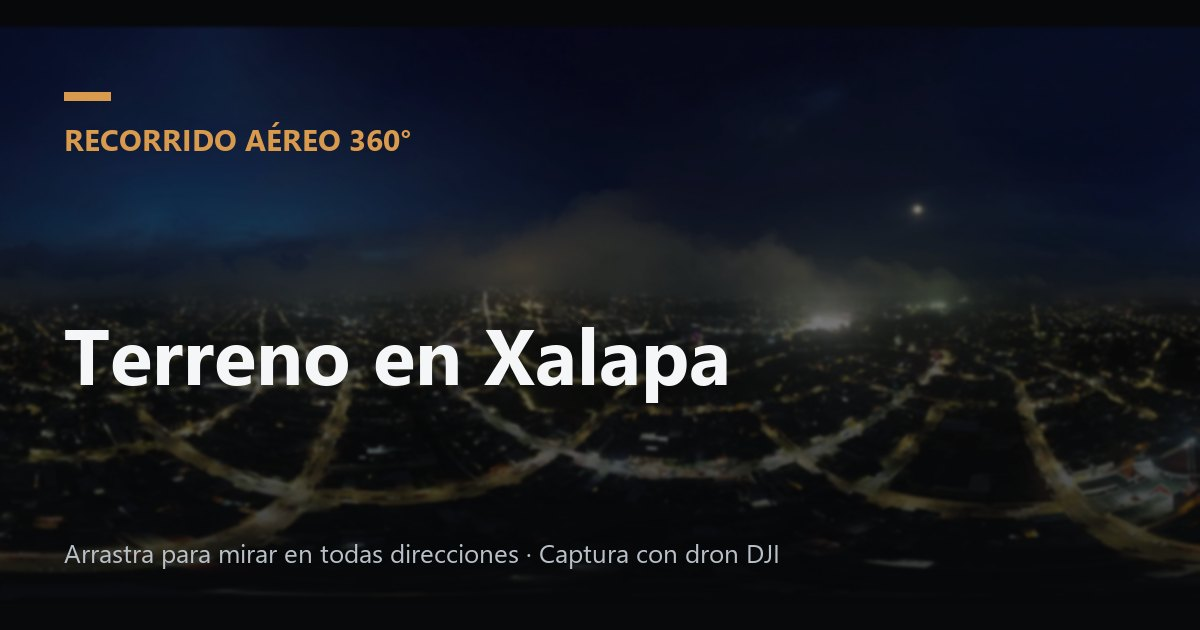
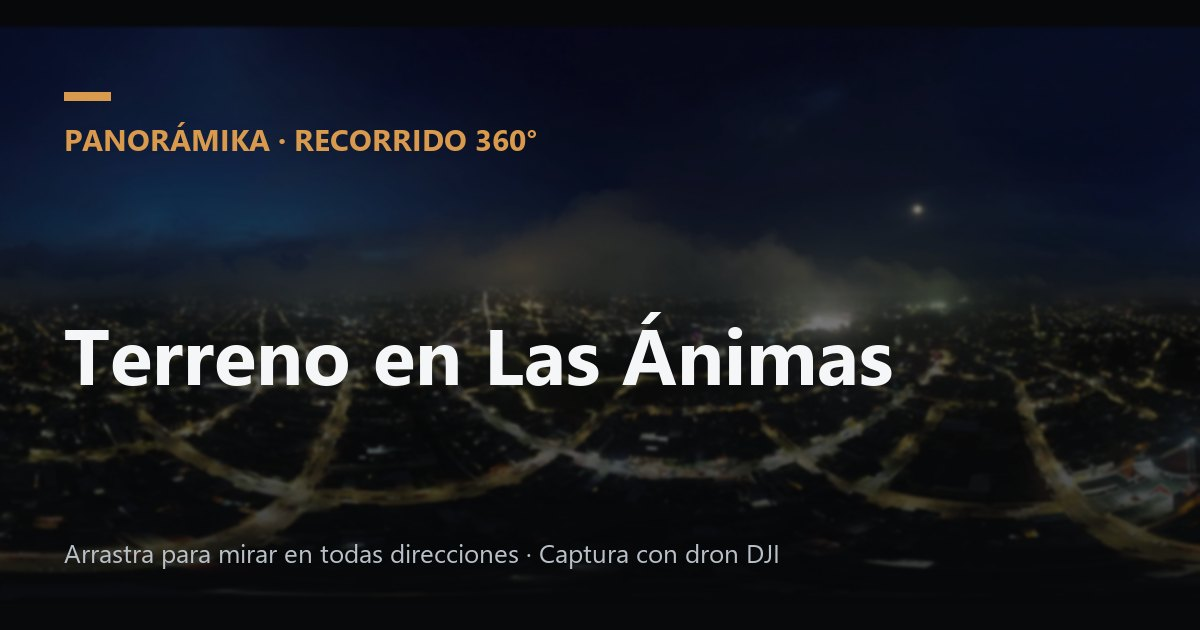
rename: Domo 360 -> Panorámika + armado de esferas con Hugin
- "Domo 360" -> "Panorámika" en UI, título, OG, prefijo de consola [Panoramika],
  docs y skills. La referencia a Domo360 en CLAUDE.md se aclara: es el competidor
  (JEBN Hunter) que Daniel estudió, no nuestro nombre.
- OG regenerada con el nombre nuevo.
- scripts/armar-esfera.sh: cose una carpeta de fotos sueltas (dron o iPhone) en
  un equirectangular 2:1 con la CLI de Hugin (pto_gen→cpfind→cpclean→
  autooptimiser→pano_modify→nona→enblend) y lo pasa por optimizar_panoramas.py.
  Probado end-to-end: 18 tomas -> esfera 2:1 coherente.
- optimizar_panoramas.py: nuevo modo "un solo archivo" (entrada -> salida.webp)
  y soporte de .tif, para recibir la salida de Hugin.

Changed region(s): [[0.4008, 0.4825, 0.74, 0.6333], [0.0617, 0.181, 0.4625, 0.2413]]

diff --git a/script.js b/script.js
@@ -1,5 +1,5 @@
 /* ============================================================================
-   Domo 360 — lógica del visor
+   Panorámika — lógica del visor
    JavaScript "vanilla" (sin frameworks). Solo depende de Pannellum, cargado
    desde el CDN en index.html (con respaldo local en /vendor/).
 
@@ -91,7 +91,7 @@ function validarProyecto(p) {
   for (const e of p.escenas) {
     for (const h of e.hotspots || []) {
       if (!ids.has(h.destino))
-        console.warn(`[Domo360] Hotspot en "${e.id}" apunta a "${h.destino}", que no existe.`);
+        console.warn(`[Panoramika] Hotspot en "${e.id}" apunta a "${h.destino}", que no existe.`);
     }
   }
   return p;
@@ -118,7 +118,7 @@ async function cargarProyecto(slug) {
 function asegurarPannellum() {
   return new Promise((resolver, rechazar) => {
     if (window.pannellum) return resolver();
-    console.warn("[Domo360] Pannellum no llegó del CDN. Probando copia local…");
+    console.warn("[Panoramika] Pannellum no llegó del CDN. Probando copia local…");
     const s = document.createElement("script");
     s.src = PANNELLUM_LOCAL_JS;
     s.onload = () => (window.pannellum ? resolver() : rechazar(new Error("Pannellum local no inicializó.")));
@@ -134,7 +134,7 @@ function precargarImagen(src) {
     img.onload = () => {
       const prop = img.naturalWidth / img.naturalHeight;
       if (Math.abs(prop - 2) > 0.06)
-        console.warn(`[Domo360] "${src}" es ${img.naturalWidth}×${img.naturalHeight} (${prop.toFixed(2)}:1). Debe ser 2:1.`);
+        console.warn(`[Panoramika] "${src}" es ${img.naturalWidth}×${img.naturalHeight} (${prop.toFixed(2)}:1). Debe ser 2:1.`);
       resolver();
     };
     img.onerror = () => rechazar(new Error(`No cargó la imagen: ${src}`));
@@ -160,7 +160,7 @@ function mostrarIntro() {
   if (proyecto.portada) {
     $intro.style.setProperty("--portada", `url("${baseProyecto + proyecto.portada}")`);
   }
-  document.title = `${proyecto.nombre} · Domo 360`;
+  document.title = `${proyecto.nombre} · Panorámika`;
 
   $intro.hidden = false;
   ocultarAviso();
@@ -220,7 +220,7 @@ function iniciarVisor() {
   });
   visor.on("scenechange", alCambiarEscena);
   visor.on("error", (msg) => {
-    console.error("[Domo360] Pannellum:", msg);
+    console.error("[Panoramika] Pannellum:", msg);
     mostrarAviso("No se pudo mostrar esta toma en tu dispositivo. Prueba con otra o desde una computadora.", { error: true });
   });
 
@@ -309,7 +309,7 @@ async function arrancar() {
     await validarImagenInicial();
     mostrarIntro();
   } catch (err) {
-    console.error("[Domo360]", err);
+    console.error("[Panoramika]", err);
     mostrarAviso(err.message || "No se pudo iniciar el recorrido.", { error: true });
   }
 }

diff --git a/index.html b/index.html
@@ -4,7 +4,7 @@
   <meta charset="UTF-8" />
   <meta name="viewport" content="width=device-width, initial-scale=1, viewport-fit=cover" />
 
-  <title>Domo 360 — Recorridos aéreos con dron | Xalapa</title>
+  <title>Panorámika — Recorridos aéreos con dron | Xalapa</title>
   <meta name="description" content="Recorridos virtuales 360° de terrenos y propiedades capturados con dron DJI Mini 3 en Xalapa, Veracruz." />
   <meta name="theme-color" content="#0d0f12" />
   <link rel="icon" href="assets/favicon.svg" type="image/svg+xml" />
@@ -13,7 +13,7 @@
        Es genérica: describe el producto. Para una miniatura por proyecto se
        generan páginas por proyecto (ver DEPLOY.md). -->
   <meta property="og:type" content="website" />
-  <meta property="og:title" content="Recorrido virtual 360° · Domo 360" />
+  <meta property="og:title" content="Recorrido virtual 360° · Panorámika" />
   <meta property="og:description" content="Explora el terreno en 360° desde el aire. Captura con dron DJI Mini 3, Xalapa." />
   <meta property="og:image" content="assets/og-imagen.jpg" />
   <meta name="twitter:card" content="summary_large_image" />
@@ -36,7 +36,7 @@
   <header class="barra-superior" id="barraSuperior" hidden>
     <div class="marca">
       <span class="marca__punto" aria-hidden="true"></span>
-      <span class="marca__texto">Domo&nbsp;360</span>
+      <span class="marca__texto">Panorámika</span>
     </div>
     <div class="barra-superior__derecha">
       <p class="escena-actual" id="escenaActual" aria-live="polite"></p>
@@ -57,7 +57,7 @@
     <div class="intro__contenido">
       <div class="marca marca--intro">
         <span class="marca__punto" aria-hidden="true"></span>
-        <span class="marca__texto">Domo&nbsp;360</span>
+        <span class="marca__texto">Panorámika</span>
       </div>
       <p class="intro__ubicacion" id="introUbicacion"></p>
       <h1 class="intro__titulo" id="introTitulo"></h1>

diff --git a/style.css b/style.css
@@ -1,5 +1,5 @@
 /* ============================================================================
-   Domo 360 — hoja de estilos
+   Panorámika — hoja de estilos
    CSS3 nativo, sin frameworks. Mobile-first: las reglas base son para teléfono
    y luego @media (min-width: …) ajusta para pantallas grandes.
 

diff --git a/scripts/optimizar_panoramas.py b/scripts/optimizar_panoramas.py
@@ -11,8 +11,9 @@
 # (Alternativa sin Python: scripts/optimizar-panoramas.sh, que usa cwebp.)
 #
 # Uso:
-#   python scripts/optimizar_panoramas.py                 # -> assets/panoramas/
-#   python scripts/optimizar_panoramas.py proyectos/xalapa-demo/panoramas
+#   python scripts/optimizar_panoramas.py                       # lote -> assets/panoramas/
+#   python scripts/optimizar_panoramas.py proyectos/x/panoramas # lote -> esa carpeta
+#   python scripts/optimizar_panoramas.py entrada.tif salida.webp   # un solo archivo
 #   CALIDAD=85 ANCHO_MAX=6000 python scripts/optimizar_panoramas.py <destino>
 # ============================================================================
 import os
@@ -26,7 +27,6 @@ except ImportError:
 
 RAIZ = os.path.dirname(os.path.dirname(os.path.abspath(__file__)))
 ORIGEN = os.path.join(RAIZ, "assets", "panoramas", "_raw")
-DESTINO = sys.argv[1] if len(sys.argv) > 1 else os.path.join(RAIZ, "assets", "panoramas")
 
 CALIDAD = int(os.environ.get("CALIDAD", "82"))      # 0-100; 80-85 es el punto dulce
 ANCHO_MAX = int(os.environ.get("ANCHO_MAX", "5760"))  # ancho máximo de salida
@@ -51,31 +51,40 @@ def a_proporcion_2_1(img):
     return lienzo
 
 
-def optimizar(ruta_entrada, carpeta_salida):
-    nombre = os.path.splitext(os.path.basename(ruta_entrada))[0]
-    ruta_salida = os.path.join(carpeta_salida, nombre + ".webp")
-
+def optimizar(ruta_entrada, ruta_salida):
     with Image.open(ruta_entrada) as img:
         img = ImageOps.exif_transpose(img).convert("RGB")  # respeta orientación EXIF
         img = a_proporcion_2_1(img)
         if img.width > ANCHO_MAX:
             img = img.resize((ANCHO_MAX, ANCHO_MAX // 2), Image.LANCZOS)
+        os.makedirs(os.path.dirname(os.path.abspath(ruta_salida)), exist_ok=True)
         img.save(ruta_salida, "WEBP", quality=CALIDAD, method=6)
+        w, h = img.size
 
     antes = os.path.getsize(ruta_entrada) // 1024
     despues = os.path.getsize(ruta_salida) // 1024
-    print(f"  {os.path.basename(ruta_entrada)}  {antes} KB -> {despues} KB  "
-          f"({Image.open(ruta_salida).size[0]}x{Image.open(ruta_salida).size[1]})")
+    print(f"  {os.path.basename(ruta_entrada)} -> {os.path.basename(ruta_salida)}  "
+          f"{antes} KB -> {despues} KB  ({w}x{h})")
 
 
 def main():
+    args = sys.argv[1:]
+
+    # Modo "un solo archivo":  optimizar_panoramas.py entrada.ext salida.webp
+    if len(args) == 2 and os.path.isfile(args[0]):
+        optimizar(args[0], args[1])
+        print("Listo.")
+        return
+
+    # Modo lote: procesa assets/panoramas/_raw/ -> carpeta destino
+    destino = args[0] if args else os.path.join(RAIZ, "assets", "panoramas")
     if not os.path.isdir(ORIGEN):
         sys.exit(f"ERROR: no existe {ORIGEN}")
-    os.makedirs(DESTINO, exist_ok=True)
+    os.makedirs(destino, exist_ok=True)
 
     # Dedup por ruta real: en Windows el sistema de archivos no distingue
     # mayúsculas y *.jpg / *.JPG devolverían el mismo archivo dos veces.
-    exts = (".jpg", ".jpeg", ".png")
+    exts = (".jpg", ".jpeg", ".png", ".tif", ".tiff")
     vistos, archivos = set(), []
     for f in sorted(glob.glob(os.path.join(ORIGEN, "*"))):
         clave = os.path.normcase(os.path.abspath(f))
@@ -86,9 +95,10 @@ def main():
         print(f"No hay imágenes en {ORIGEN}. Copia ahí los originales del dron.")
         return
 
-    print(f"Optimizando {len(archivos)} imagen(es) -> {DESTINO}")
+    print(f"Optimizando {len(archivos)} imagen(es) -> {destino}")
     for f in archivos:
-        optimizar(f, DESTINO)
+        nombre = os.path.splitext(os.path.basename(f))[0]
+        optimizar(f, os.path.join(destino, nombre + ".webp"))
     print("Listo. Añade las tomas al proyecto (ver skill add-panorama).")
 
 

diff --git a/scripts/generar_og.py b/scripts/generar_og.py
@@ -26,7 +26,7 @@ ACENTO = (217, 154, 78)
 fondo_src = sys.argv[1] if len(sys.argv) > 1 else \
     os.path.join(RAIZ, "proyectos", "xalapa-demo", "panoramas", "aerea-xalapa.webp")
 titulo = sys.argv[2] if len(sys.argv) > 2 else "Recorrido virtual 360°"
-subtitulo = sys.argv[3] if len(sys.argv) > 3 else "Domo 360 · Xalapa"
+subtitulo = sys.argv[3] if len(sys.argv) > 3 else "Panorámika · Xalapa"
 salida = os.path.join(RAIZ, "assets", "og-imagen.jpg")
 
 

diff --git a/CLAUDE.md b/CLAUDE.md
@@ -2,8 +2,9 @@
 
 This file provides guidance to Claude Code (claude.ai/code) when working with code in this repository.
 
-> El contexto de negocio (quién es Daniel, modelo Domo 360, mercado de Xalapa,
-> DJI Mini 3, cómo prefiere trabajar) vive en `../CLAUDE.md`. **Este archivo manda
+> El contexto de negocio (quién es Daniel, el modelo de Domo360 de JEBN Hunter que
+> estudió como referencia de competencia, mercado de Xalapa, DJI Mini 3, cómo
+> prefiere trabajar) vive en `../CLAUDE.md`. **Este archivo manda
 > en lo técnico.** Si algo en `../CLAUDE.md` menciona Next.js, React, Leaflet,
 > Supabase o Vercel, está desactualizado — se archivó ese stack (ver más abajo).
 
@@ -80,7 +81,7 @@ script.js
 - **Programación defensiva** (skill `senior-coder`): validar el JSON y las imágenes
   antes de usarlas, `mostrarAviso(..., { error:true })` con "Reintentar", hotspots a
   destinos inexistentes se ignoran con `console.warn`. Nunca un lienzo negro mudo.
-- Los `console.*` van prefijados con `[Domo360]`.
+- Los `console.*` van prefijados con `[Panoramika]`.
 
 ## 5. Estilo de código
 
@@ -108,9 +109,8 @@ Despliegue: ver **`DEPLOY.md`** y la skill **`github-deploy`**. Rama por fitach
 (`fitach/<nombre>`), commits limpios, `git push`, PR con `gh`. GitHub Pages sirve
 `main` desde la raíz; `.nojekyll` evita el procesado Jekyll.
 
-**Pendiente de Daniel:** `gh` (GitHub CLI) no está instalado —
-`winget install --id GitHub.cli` y `gh auth login`. Sin eso no se puede crear el
-repo remoto ni activar Pages.
+Ya publicado: repo `OniSr/panoramika`, en vivo en **https://onisr.github.io/panoramika/**.
+`gh` instalado con `winget install --id GitHub.cli --scope user`.
 
 ## 7. Historial
 

diff --git a/.claude/skills/github-deploy/skill.md b/.claude/skills/github-deploy/skill.md
@@ -24,7 +24,7 @@ intentes push sin remoto.
 ## Crear el repositorio remoto (una sola vez)
 
 ```bash
-gh repo create domo360 --private --source=. --remote=origin
+gh repo create panoramika --private --source=. --remote=origin
 git push -u origin main
 git push -u origin archivo-nextjs      # conservar el MVP Next.js archivado
 ```
@@ -65,14 +65,14 @@ gh pr create --fill --base main
 ## Publicar en GitHub Pages (una sola vez)
 
 ```bash
-gh api -X POST repos/:owner/domo360/pages -f 'source[branch]=main' -f 'source[path]=/'
+gh api -X POST repos/:owner/panoramika/pages -f 'source[branch]=main' -f 'source[path]=/'
 ```
 
 O por interfaz: **Settings → Pages → Source: Deploy from a branch → `main` / `/root`**.
 
 - El sitio es estático en la raíz, así que Pages lo sirve tal cual.
 - `.nojekyll` (ya en el repo) evita que Pages procese los archivos con Jekyll.
-- URL resultante: `https://<usuario>.github.io/domo360/`. Tras cada merge a `main`,
+- URL resultante: `https://<usuario>.github.io/panoramika/`. Tras cada merge a `main`,
   Pages redepliega solo en 1–2 min.
 
 ## Merge

diff --git a/DEPLOY.md b/DEPLOY.md
@@ -1,4 +1,4 @@
-# Despliegue — Domo 360
+# Despliegue — Panorámika
 
 Sitio 100 % estático → **GitHub Pages**. No hay servidor, base de datos ni build.
 Publicar = `git push`.
@@ -52,7 +52,7 @@ Al hacer merge a `main`, Pages redepliega solo. Detalle en
 
 ## Dominio propio (opcional, más adelante)
 
-1. Compra el dominio (ej. `domo360.mx`).
+1. Compra el dominio (ej. `panoramika.mx`).
 2. `Settings → Pages → Custom domain` → escribe el dominio → Save.
 3. En tu proveedor DNS: un registro `CNAME` de `www` → `<usuario>.github.io`, y
    los 4 registros `A` de GitHub Pages para el dominio raíz.

diff --git a/.claude/skills/senior-coder/skill.md b/.claude/skills/senior-coder/skill.md
@@ -34,8 +34,8 @@ paso, y a prueba de fallos evidentes**.
 
 ### Errores en general
 - Envuelve el arranque en `.catch(...)` / `try…catch` y traduce el error a lenguaje
-  de usuario. El detalle técnico va a `console.error("[Domo360]", err)`.
-- Prefijo `[Domo360]` en todos los `console.*` para poder filtrar.
+  de usuario. El detalle técnico va a `console.error("[Panoramika]", err)`.
+- Prefijo `[Panoramika]` en todos los `console.*` para poder filtrar.
 - Degradación elegante: si un hotspot apunta a un `destino` que no existe en
   `ESCENAS`, no rompas el visor — ignóralo con un `console.warn`.
 

diff --git a/README.md b/README.md
@@ -1,4 +1,4 @@
-# Domo 360 — Recorridos 360° con dron (Xalapa)
+# Panorámika — Recorridos 360° con dron (Xalapa)
 
 Sitio estático que muestra tomas panorámicas 360° del DJI Mini 3 con navegación
 entre escenas mediante hotspots. Sin frameworks: **HTML + CSS + Pannellum.js**.
